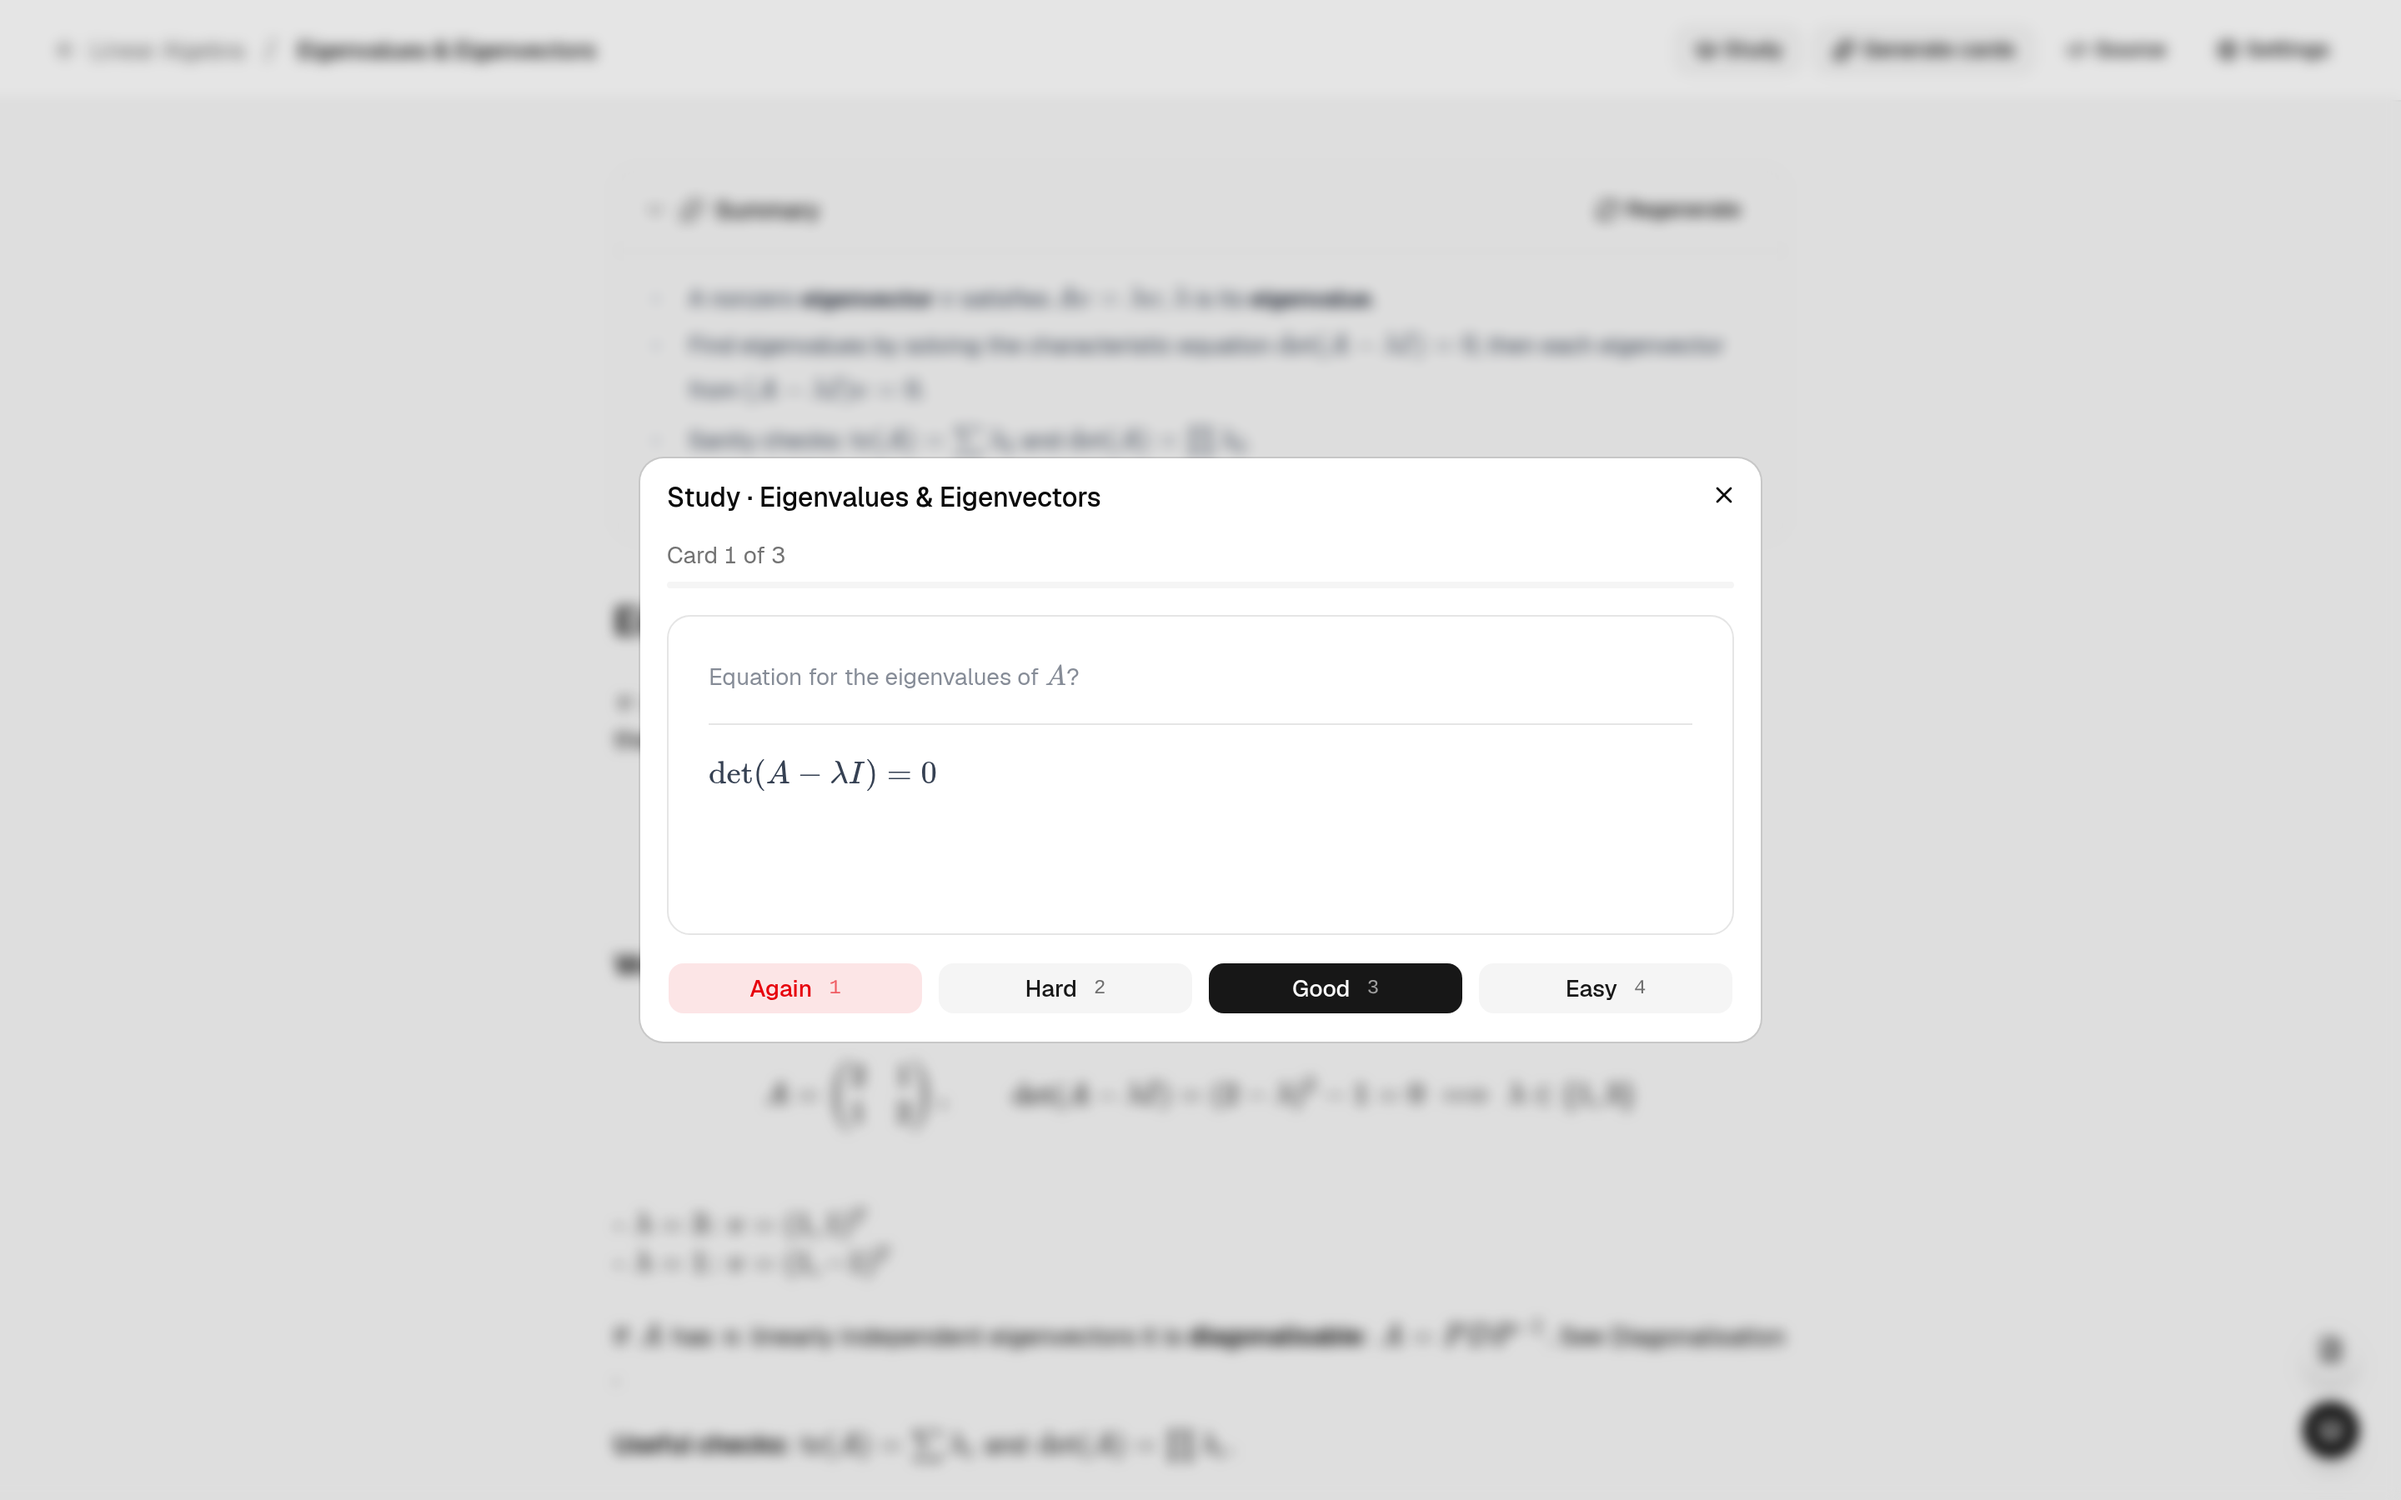
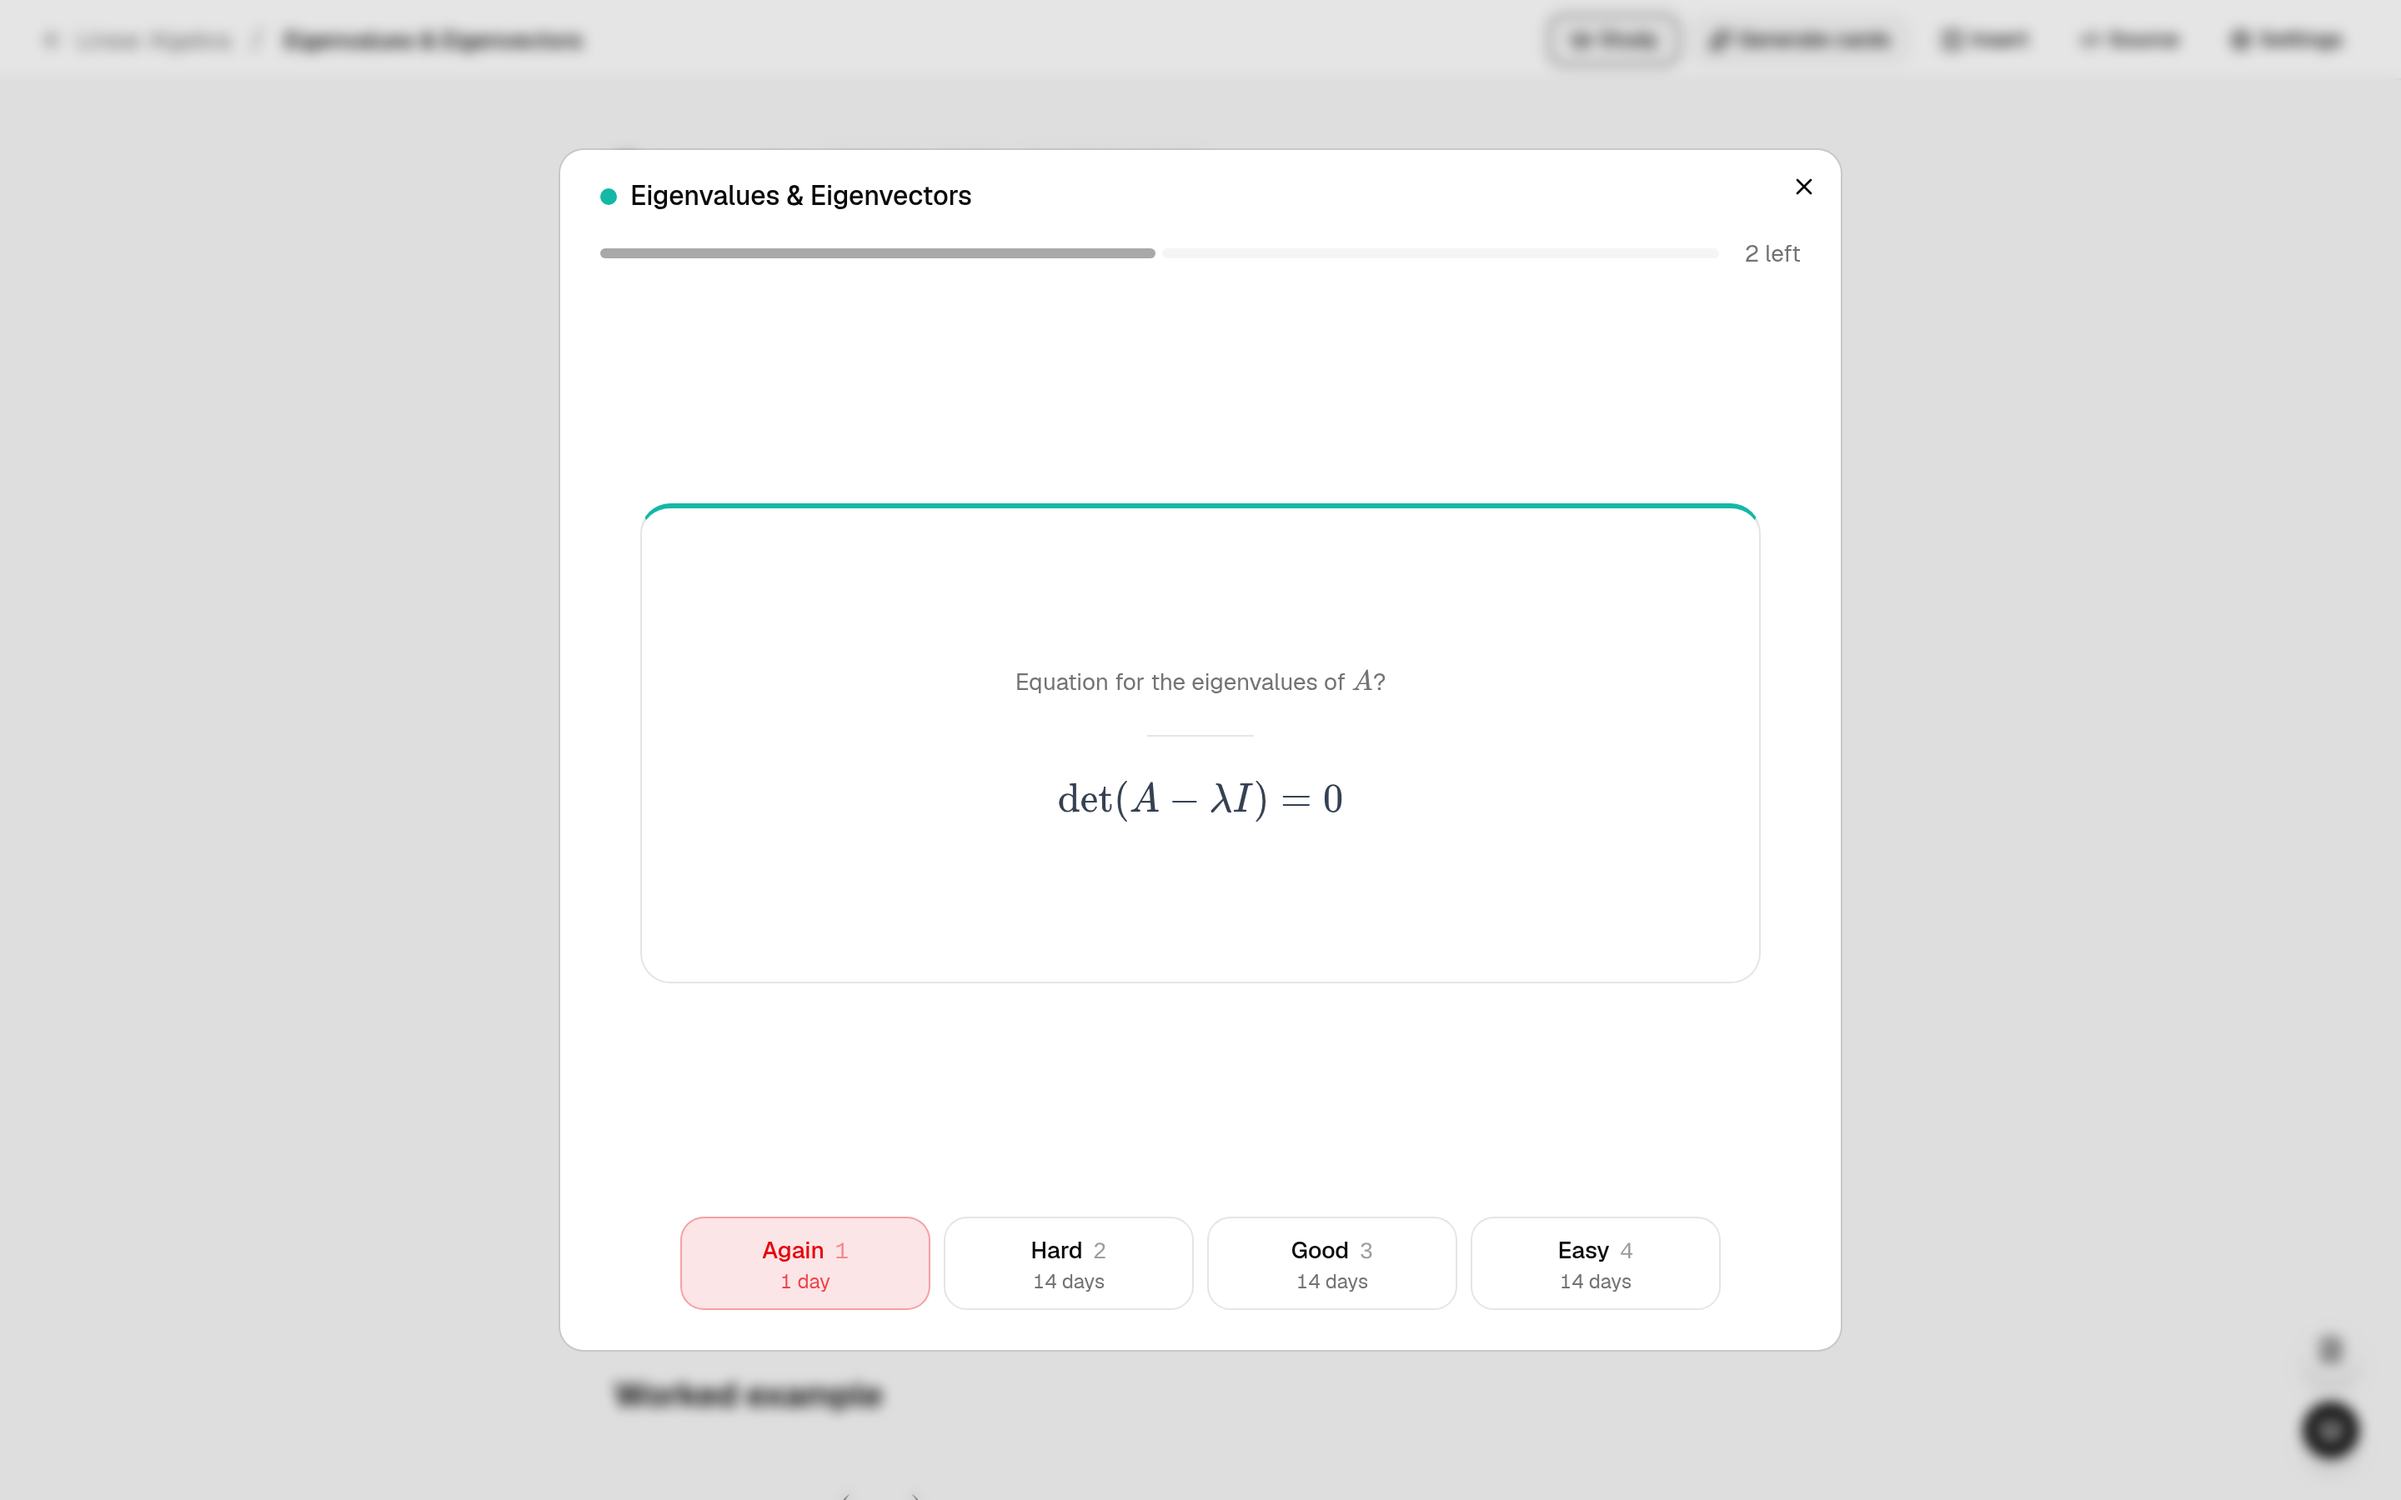
docs: refresh README screenshots for v0.1.0
All 11 retaken from a seeded demo (a 2nd-year CS semester, clock frozen at
Thu 19 Nov 2026 10:30, scratch data folder): current module banner and
widgets, flashcard study with next intervals, compact assignment files,
revision plan on the exam page, and the plan-revision dialog.

diff --git a/README.md b/README.md
@@ -64,12 +64,12 @@ Each course gets a colour, a credit weighting, a live countdown to the next lect
 
 ### ✅ Assignments and exams
 
-Each assignment has a weighting (a module's weightings can't add up to more than 100%), a due-date countdown and a status that moves through *not started → submitted → graded*. Its notes fill the left of the page in the same live editor as your topic notes. On the right, a checklist tracks your progress, and attached files (the brief, a rubric, a past paper) open as inline PDF, image or video previews. Exams also store a duration, a location and the topics they cover, shown as links in the header, plus their revision plan.
+Each assignment has a weighting (a module's weightings can't add up to more than 100%), a due-date countdown and a status that moves through *not started → submitted → graded*. Its notes fill the left of the page in the same live editor as your topic notes. On the right, a checklist tracks your progress, and attached files (the brief, a rubric, a past paper) open in a PDF, image or video preview. Exams also store a duration, a location and the topics they cover, shown as links in the header, plus their revision plan.
 
 <table>
   <tr>
-    <td><img src="docs/screenshots/assignment.png" alt="Coursework page with notes, a checklist and an embedded PDF brief"></td>
-    <td><img src="docs/screenshots/assignment-exam.png" alt="Exam page with covered topics, a checklist and a revision plan"></td>
+    <td><img src="docs/screenshots/assignment.png" alt="Coursework page with notes, a checklist and the attached brief"></td>
+    <td><img src="docs/screenshots/assignment-exam.png" alt="Exam page with covered topics, a checklist and its revision plan"></td>
   </tr>
 </table>
 
@@ -97,7 +97,7 @@ Pick an exam, the days you can study and how long each session should be. StudyB
 
 <table>
   <tr>
-    <td><img src="docs/screenshots/revision-plan.png" alt="Revision plan for an exam"></td>
+    <td><img src="docs/screenshots/revision-plan.png" alt="Planning revision for an exam: days, session length and start date"></td>
     <td><img src="docs/screenshots/revision-session.png" alt="A revision session with its weakest cards"></td>
   </tr>
 </table>
